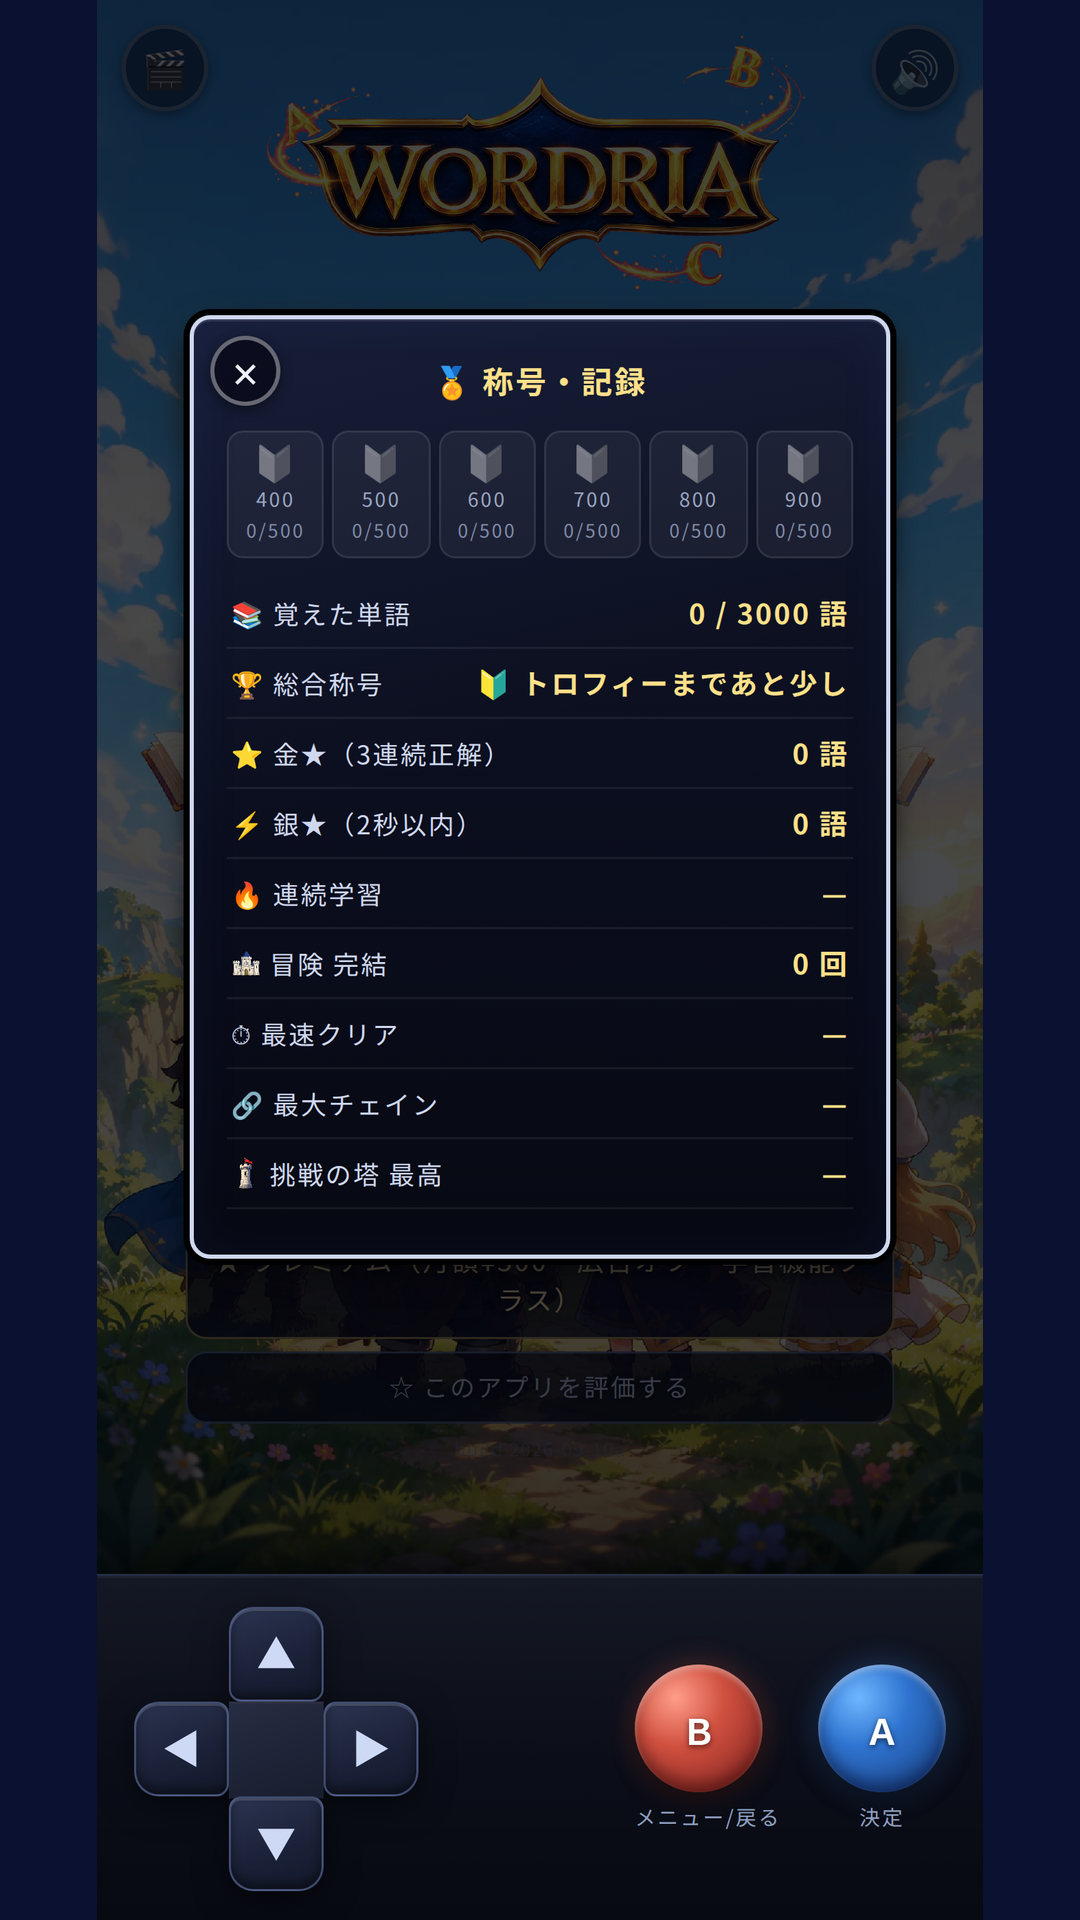
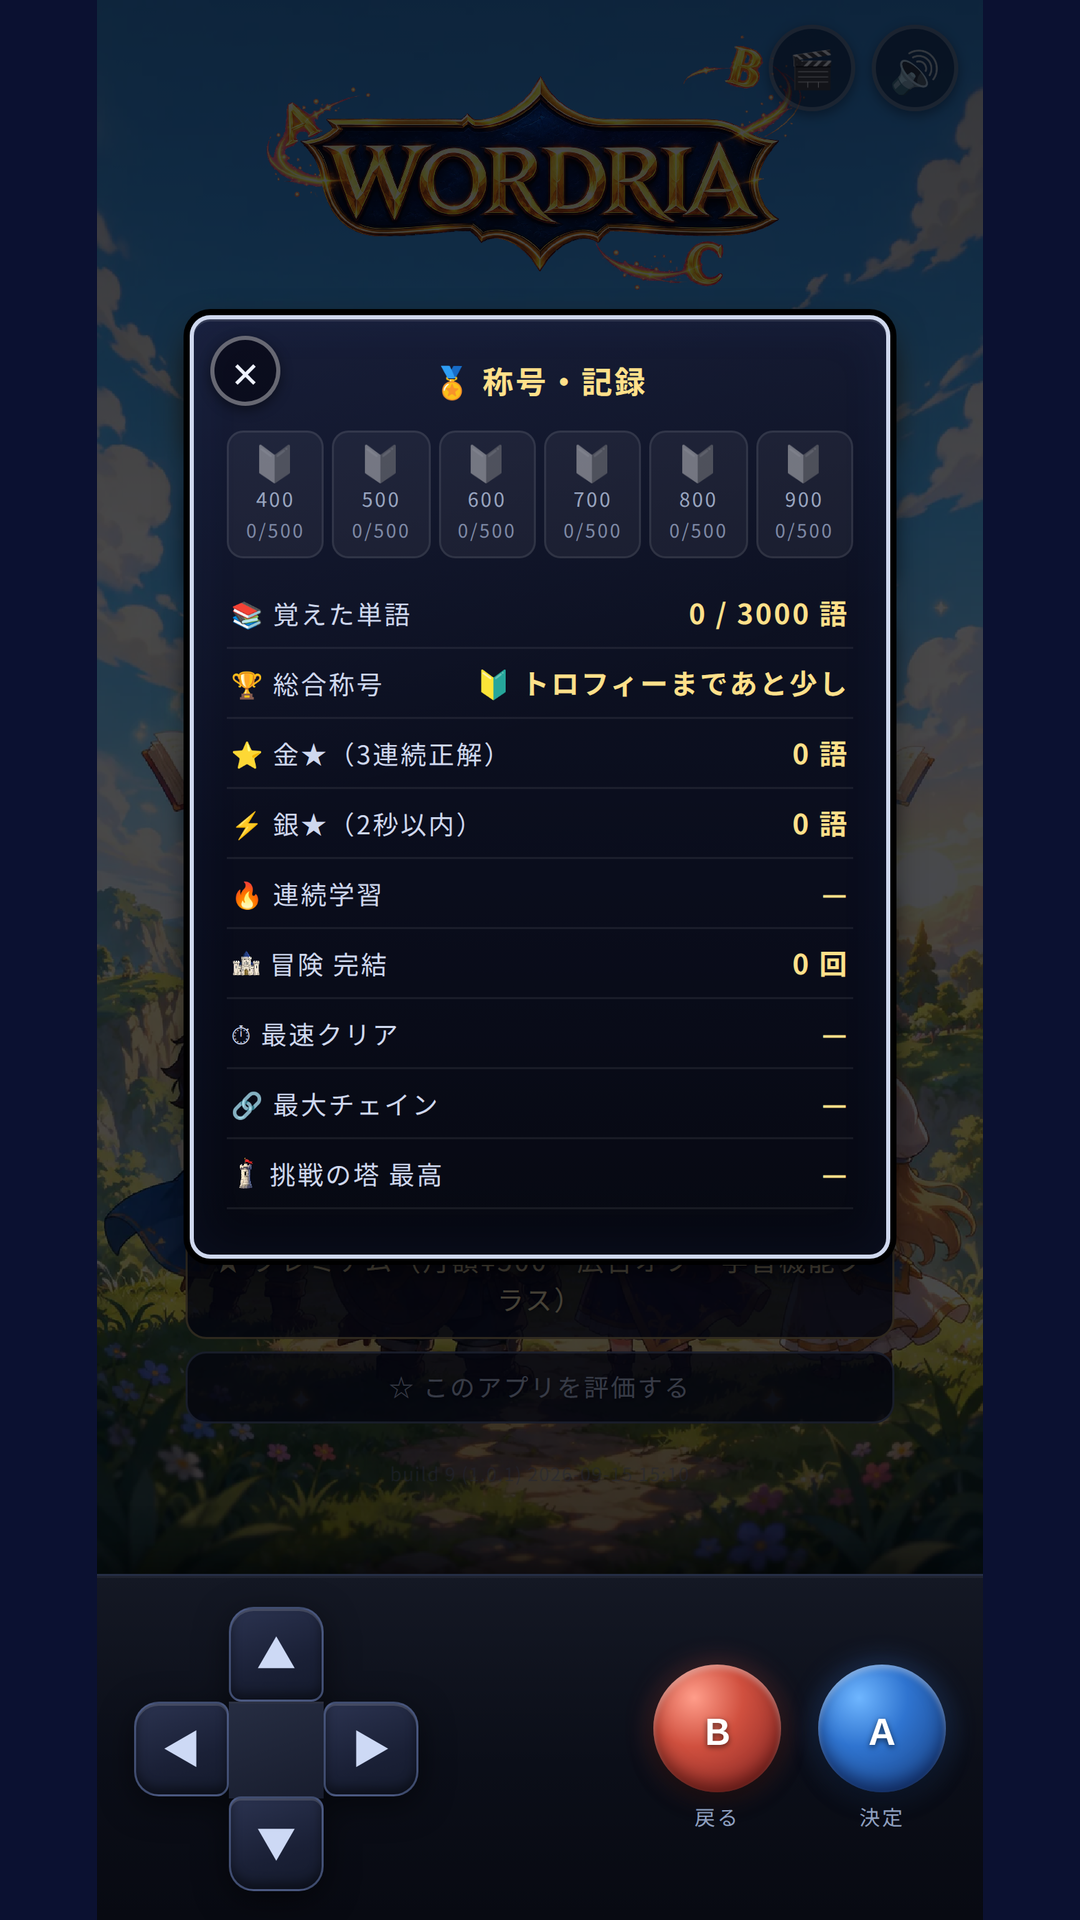
ストア用スクリーンショットを6枚とも撮り直す
App Store の掲載情報が旧名のままという指摘から中身を見たところ、
用意してあったスクリーンショットにも古いところが残っていた。

  Bボタンの下  「メニュー/戻る」→ いまのアプリは「戻る」（2026-09-13 に変更）
  Aボタンの下  「話す/決定」  → いまのアプリは「決定」

原因は撮影の仕組みにあった。make_shots.js が撮るのはタイトルから行ける
3枚だけで、02_quiz・03_boss は「自動で運ぶのは当てにならない」として
手で遊んで撮る運用だった。撮り直しが面倒だと、こうして古いまま残る。

■ 6枚すべて自動で撮れるようにした

  出る単語    … QUIZ.ask を包んで opts.entry を差し込む。毎回同じ語が出る
                （02_quiz は moreover、03_boss は competent。前と同じ構図）
  四天王ハウル … 「続きから」の保存データを6戦目・4人で作って再開する。
                 11戦を勝ち抜く必要はない
  04_wordbook … 単語帳。そもそも撮影対象から漏れていたので足した

アプリ側には手を入れていない。撮影のときだけ外から差し込む。

途中でつまずいた点も残した:
  ・メニュー項目は onpointerdown でしか動かない。el.click() では反応しない
  ・攻撃を選んでもすぐクイズにならない。素早い敵が先に動くので、
    その行動メッセージを送らないと自分の番が来ない
  ・タイトルのボタンの文字は読み込み時に決まる。あとから保存データを
    入れても変わらないので、文字ではなく id で押す

■ 日本語フォントの罠を手順書に書いた

この環境では sans-serif が WenQuanYi Zen Hei（中国語）に解決されており、
最初の撮影は中国語字形になるところだった。fonts-noto-cjk を入れるだけでは
足りず、fontconfig で優先順位を入れ替える必要がある。確認コマンドと
直し方を README に書いた。

あわせて、make_store_assets.js がプレビュー動画も巻き添えで再エンコードして
13.2MB → 16.5MB に太らせる件（中身は同じ）も書き、今回は戻してある。

全サイズ再生成: 6.9inch 1290x2796 / 6.5inch 1284x2778 / 13inch 2064x2752
              / Play 1080x1920

Claude-Session: https://claude.ai/code/session_01FnVhb4STeLenZzKBowdTQv

Changed region(s): [[0.5806, 0.8438, 0.7333, 0.9688], [0.7028, 0.0, 0.7944, 0.0625], [0.1222, 0.0, 0.1833, 0.0625]]

diff --git a/tools/make_shots.js b/tools/make_shots.js
@@ -4,7 +4,7 @@
 //   npm run build:www
 //   npm install playwright-core --no-save
 //   node tools/make_shots.js
-//   → store/screenshots/01_title.png 05_records.png 06_grades.png （1290×2796）
+//   → store/screenshots/01_title 02_quiz 03_boss 04_wordbook 05_records 06_grades（1290×2796）
 //
 // そのあと、いつもの並びに組み直す：
 //   node tools/make_store_assets.js   # → 6.9inch / 6.5inch
@@ -16,10 +16,19 @@
 // （「※ ストーリーモードは 制作中です」の行は build_www.js が落とす）。
 // 店頭に出す絵は、実際に配るものと同じでなければならない。
 //
-// ── 撮れないもの ────────────────────────────────────
-// 02_quiz と 03_boss は撮らない。特定の単語（moreover / competent）と
-// 四天王ハウルが出ている場面で、そこまで自動で持っていくのは当てにならない。
-// あの2枚は手で遊んで撮ったもので、中身も古くなっていないのでそのまま使う。
+// ── 02_quiz と 03_boss も撮る（2026-09-16 追加）────────────
+// 以前は「特定の単語と四天王ハウルが出ている場面まで自動で運ぶのは
+// 当てにならない」として、この2枚だけ手で遊んで撮っていた。
+// そのぶん撮り直しが面倒になり、実際に古いまま残った：Bボタンの下が
+// 「メニュー/戻る」、Aボタンが「話す/決定」と、いまのアプリに無い表記に
+// なっていた（2026-09-16 に本人が気づいた）。撮れないままにしておくと
+// 必ずこうなるので、運べるようにした。
+//
+// 運び方は2つとも決め打ちにしてある。
+//   ・出る単語 … QUIZ.ask を包んで opts.entry を差し込む。毎回同じ語が出る
+//   ・ハウル   … 「続きから」の保存データ(wq2_run_v1)を 6戦目・4人で作り、
+//                 タイトルから再開する。11戦を勝ち抜く必要はない
+// どちらもアプリ側には手を入れていない。撮影のときだけ外から差し込む。
 //
 // ── 日本語フォント ─────────────────────────────────
 // これが無い環境で撮ると、sans-serif が中国語フォントに解決されて
@@ -71,6 +80,106 @@ async function clickText(page, sel, text) {
   }, { sel: sel, text: text });
   if (!ok) throw new Error("押せませんでした: " + sel + " 「" + text + "」");
   await page.waitForTimeout(500);
+}
+
+// 出る単語を決め打ちにする。QUIZ.ask を包んで entry を差し込むだけで、
+// アプリ側には触らない。同じ絵が何度でも撮れる
+async function forceWord(page, word) {
+  var ok = await page.evaluate(function (w) {
+    if (!window.QUIZ || !window.VOCAB) return false;
+    var found = null;
+    Object.keys(window.VOCAB).forEach(function (lv) {
+      if (found) return;
+      var e = window.VOCAB[lv].filter(function (x) { return x.w === w; })[0];
+      if (e) found = { lv: +lv, entry: e };
+    });
+    if (!found) return false;
+    var orig = window.QUIZ.ask;
+    window.QUIZ.ask = function (lv, opts) {
+      var o = {};
+      Object.keys(opts || {}).forEach(function (k) { o[k] = opts[k]; });
+      o.entry = found.entry;
+      return orig.call(this, found.lv, o);
+    };
+    return true;
+  }, word);
+  if (!ok) throw new Error("この単語が見つかりません: " + word);
+}
+
+// 「続きから」の保存データを作る。11戦を勝ち抜かずに任意の戦いから撮れる
+async function seedRun(page, nextIndex) {
+  await page.evaluate(function (i) {
+    var party = ["yu", "gai", "rina", "mia"].map(function (id) {
+      var m = window.PBATTLE.makeMember(id, 28);
+      m.bag = ["herb", "herb", "elixir"];
+      return m;
+    });
+    localStorage.setItem("wq2_run_v1", JSON.stringify({
+      i: i, party: party, stats: { t0: Date.now(), maxChain: 0 }, easy: false, at: Date.now()
+    }));
+  }, nextIndex);
+}
+
+// 中断した挑戦が残っていたら「最初から やり直す」で消す
+async function dismissResume(page) {
+  var had = await page.evaluate(function () {
+    var o = document.querySelector(".wq2-store-ovl");
+    if (!o) return false;
+    var b = [].slice.call(o.querySelectorAll("button"))
+      .filter(function (x) { return x.textContent.indexOf("最初から") >= 0; })[0];
+    if (b) { b.click(); return true; }
+    return false;
+  });
+  if (had) await page.waitForTimeout(700);
+}
+
+// 戦闘に入り、コマンドから「こうげき」を選んでクイズを出す。
+// 途中の文章は A を押して送る。何回で終わるかは戦いによって違うので、
+// 目的の要素が出るまで押す
+async function toQuiz(page) {
+  // 「Ａボタンで 開始！」のカードと、登場〜口上を送る
+  var ready = false;
+  for (var i = 0; i < 30; i++) {
+    ready = await page.evaluate(function () {
+      var el = document.getElementById("pbattle-cmd");
+      return !!el && el.style.display === "block";
+    });
+    if (ready) break;
+    await page.click("#btn-a");
+    await page.waitForTimeout(450);
+  }
+  if (!ready) throw new Error("戦闘のコマンドが出ませんでした");
+
+  // ★ メニューの項目は onpointerdown でしか動かない。el.click() では反応しない。
+  //   Playwright の本物のクリックなら pointerdown が飛ぶので、そちらを使う
+  await page.locator("#pbattle-cmd .menu-item", { hasText: "こうげき" }).first().click();
+  await page.waitForTimeout(400);
+
+  // 敵が複数なら「どの敵？」が出る。1体（ボス）なら出ない
+  var sub = await page.evaluate(function () {
+    var el = document.getElementById("pbattle-sub");
+    return !!el && el.style.display === "block";
+  });
+  if (sub) {
+    await page.locator("#pbattle-sub .menu-item").first().click();
+    await page.waitForTimeout(400);
+  }
+
+  // 攻撃を選んでもすぐクイズにはならない。素早い敵が先に動くことがあり、
+  // その行動メッセージを送らないと自分の番が来ない。出るまで A を押し続ける
+  var shown = false;
+  for (var k = 0; k < 40; k++) {
+    shown = await page.evaluate(function () {
+      var q = document.getElementById("quiz-overlay");
+      return !!q && getComputedStyle(q).display !== "none";
+    });
+    if (shown) break;
+    await page.click("#btn-a");
+    await page.waitForTimeout(350);
+  }
+  if (!shown) throw new Error("クイズが出ませんでした");
+  // 制限時間のバーが少し減ったところで撮る（満タンだと止まって見える）
+  await page.waitForTimeout(1200);
 }
 
 (async function () {
@@ -132,6 +241,38 @@ async function clickText(page, sel, text) {
   await b.page.waitForTimeout(400);
   await shot(b.page, "06_grades");
   await b.ctx.close();
+
+  // ---- 04_wordbook 単語帳 ----
+  // ここも撮影対象から漏れていて、Bボタンが「メニュー/戻る」のまま残っていた
+  var w = await open();
+  await w.page.click("#pbtn-zukan");
+  await w.page.waitForTimeout(900);
+  await shot(w.page, "04_wordbook");
+  await w.ctx.close();
+
+  // ---- 02_quiz 第1戦のクイズ ----
+  var c = await open();
+  await forceWord(c.page, "moreover");
+  await clickText(c.page, ".title-btn", "ことばの冒険");
+  await c.page.waitForTimeout(700);
+  await dismissResume(c.page);              // 前の「続きから」が残っていたら消す
+  await toQuiz(c.page);
+  await shot(c.page, "02_quiz");
+  await c.ctx.close();
+
+  // ---- 03_boss 四天王ハウル戦のクイズ ----
+  var d = await open();
+  await forceWord(d.page, "competent");
+  await seedRun(d.page, 5);                  // 6戦目＝四天王ハウルから再開させる
+  // ボタンの文字（「ことばの冒険」／「続きから」）は読み込み時に決まるので、
+  // あとから保存データを入れても変わらない。押したときに読み直されるので、
+  // 文字ではなく id で押す
+  await d.page.click("#pbtn-arena");
+  await d.page.waitForTimeout(700);
+  await clickText(d.page, ".wq2-store-btn", "続きから");
+  await toQuiz(d.page);
+  await shot(d.page, "03_boss");
+  await d.ctx.close();
 
   await browser.close();
   srv.close();

diff --git a/store/screenshots/README.md b/store/screenshots/README.md
@@ -30,14 +30,60 @@ node tools/make_ipad_shots.js       # → store/upload/13inch
 node tools/make_play_assets.js      # → store/play/
 ```
 
-`make_shots.js` が撮るのは**タイトル画面から行ける3枚だけ**。
-`02_quiz` と `03_boss` は、特定の単語と四天王ハウルが出ている場面なので、
-そこまで自動で運ぶのは当てにならない。あの2枚は手で遊んで撮ったもの。
+`make_shots.js` が**6枚すべて**撮る（2026-09-16 から）。
+以前は `02_quiz` と `03_boss` を「自動で運ぶのは当てにならない」として
+手で遊んで撮っていたが、そのせいで撮り直しが面倒になり、実際に古いまま
+残った（Bボタンが「メニュー/戻る」、Aボタンが「話す/決定」と、いまの
+アプリに無い表記になっていた）。運べるようにしてある。
+
+  出る単語  … QUIZ.ask を包んで opts.entry を差し込む。毎回同じ語が出る
+              （02_quiz は moreover、03_boss は competent）
+  ハウル    … 「続きから」の保存データを 6戦目・4人で作って再開する
+  04_wordbook … 単語帳。これも漏れていたので足した
+
+アプリ側には手を入れていない。撮影のときだけ外から差し込む。
 
 **www/ ビルドから撮ること。** `party/` には出荷ビルドに入らないもの
 （「※ ストーリーモードは 制作中です」の行）が混ざっている。
 
-日本語フォントが無い環境で撮ると**中国語字形になる**ので注意
+### ⚠ 日本語フォント（毎回確認すること）
+
+日本語フォントが無い環境で撮ると、sans-serif が中国語フォントに解決されて
+**中国語の字形**になる。2026-09-16 の撮り直しでも、最初はこうなっていた。
+
+```bash
+fc-match "sans-serif:lang=ja"
+#  Noto Sans CJK JP  なら正しい
+#  WenQuanYi Zen Hei など中国語フォントが出たら、そのまま撮ってはいけない
+```
+
+直し方：
+
+```bash
+apt-get install -y fonts-noto-cjk
+cat > /etc/fonts/conf.d/99-ja-noto.conf <<'XML'
+<?xml version="1.0"?>
+<!DOCTYPE fontconfig SYSTEM "fonts.dtd">
+<fontconfig>
+  <alias binding="strong"><family>sans-serif</family>
+    <prefer><family>Noto Sans CJK JP</family></prefer></alias>
+</fontconfig>
+XML
+fc-cache -f
+```
+
+インストールしただけでは足りない。中国語フォントのほうが優先されたままなので、
+上の設定で順番を入れ替える必要がある。
+
+### ⚠ プレビュー動画が巻き添えで再エンコードされる
+
+`make_store_assets.js` は `store/upload/preview/op_preview_886x1920.mp4` も
+作り直す。中身は同じなのにファイルが 13.2MB → 16.5MB に太るだけなので、
+**スクリーンショットだけ更新したいときは、実行後に戻すこと。**
+
+```bash
+git checkout -- store/upload/preview/
+```
 （`sans-serif` が WenQuanYi 等に解決されるため）。`fonts-noto-cjk` が必要。
 確かめ方は `fc-match "sans-serif:lang=ja"` → `Noto Sans CJK JP` なら正しい。
 
